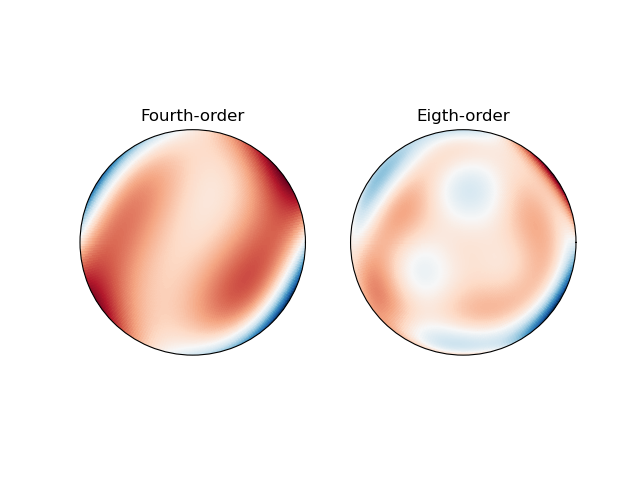
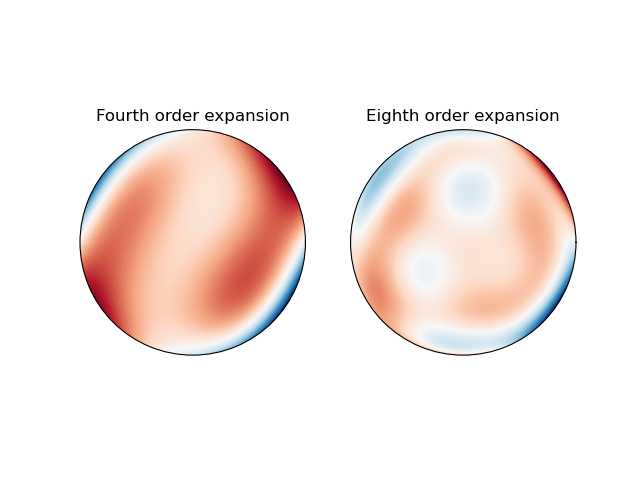
typos everywhere

Changed region(s): [[0.5625, 0.2188, 0.875, 0.2812], [0.125, 0.2188, 0.4688, 0.25]]

diff --git a/zernike.py b/zernike.py
@@ -70,7 +70,7 @@ if __name__ in '__main__':
                              'Z4m4':1.5, 'Z4m2':3.0, 'Z40':2.00, 'Z42':1.0, 'Z44':0.2,
     }
 
-    eigth_order_coeffs = {
+    eighth_order_coeffs = {
                                                      'Z00':1.0,
                                                 'Z1m1':0.0, 'Z11':0.0,
                                         'Z2m2':3.0, 'Z20':1.0, 'Z22':-1.5,
@@ -83,17 +83,15 @@ if __name__ in '__main__':
     }
 
     fourth_order = zernike_expansion(R, T, fourth_order_coeffs)
-    eigth_order = zernike_expansion(R, T, eigth_order_coeffs)
+    eighth_order = zernike_expansion(R, T, eighth_order_coeffs)
 
     plt.figure()
     ax = plt.subplot(121, polar=True)
-    ax.set_title('Fourth-order')
+    ax.set_title('Fourth order expansion')
     ax.pcolor(T, R, fourth_order, cmap='RdBu', shading='auto')
-    ax.set_yticks([])
-    ax.set_xticks([])
+    ax.set_yticks([]), ax.set_xticks([])
     ax = plt.subplot(122, polar=True)
-    ax.set_title('Eigth-order')
-    ax.pcolor(T, R, eigth_order, cmap='RdBu', shading='auto')
-    ax.set_yticks([])
-    ax.set_xticks([])
+    ax.set_title('Eighth order expansion')
+    ax.pcolor(T, R, eighth_order, cmap='RdBu', shading='auto')
+    ax.set_yticks([]), ax.set_xticks([])
     plt.show()
